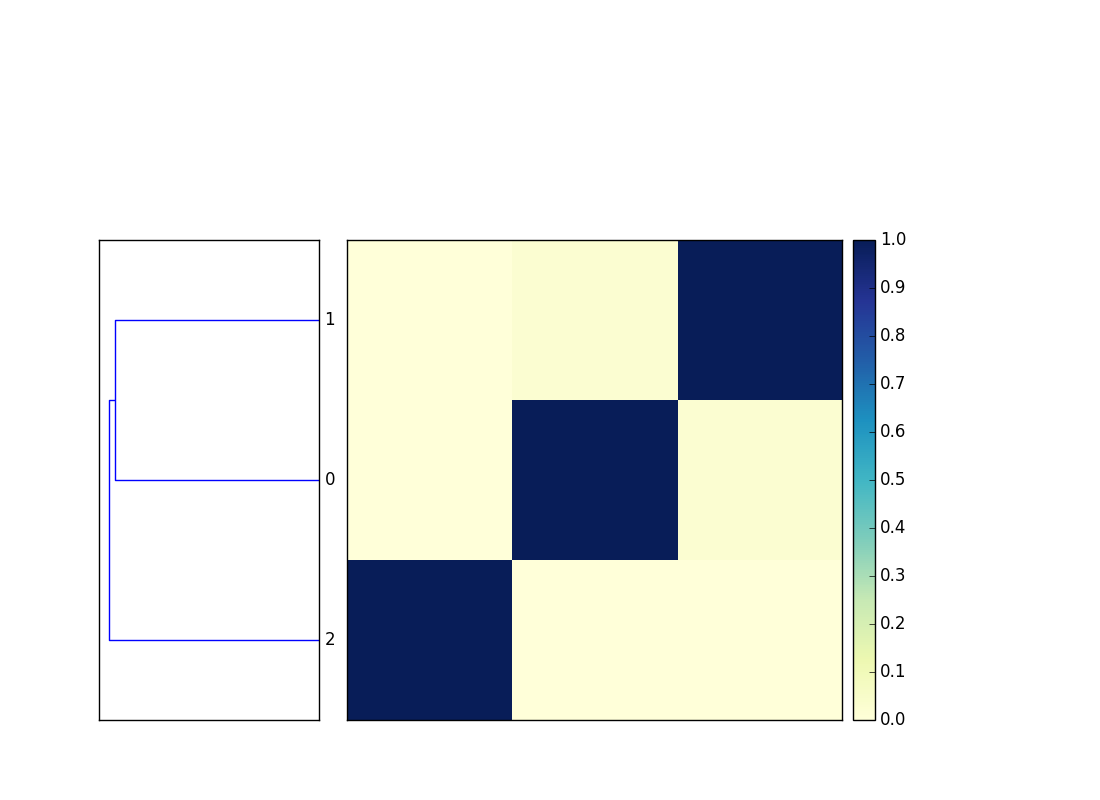
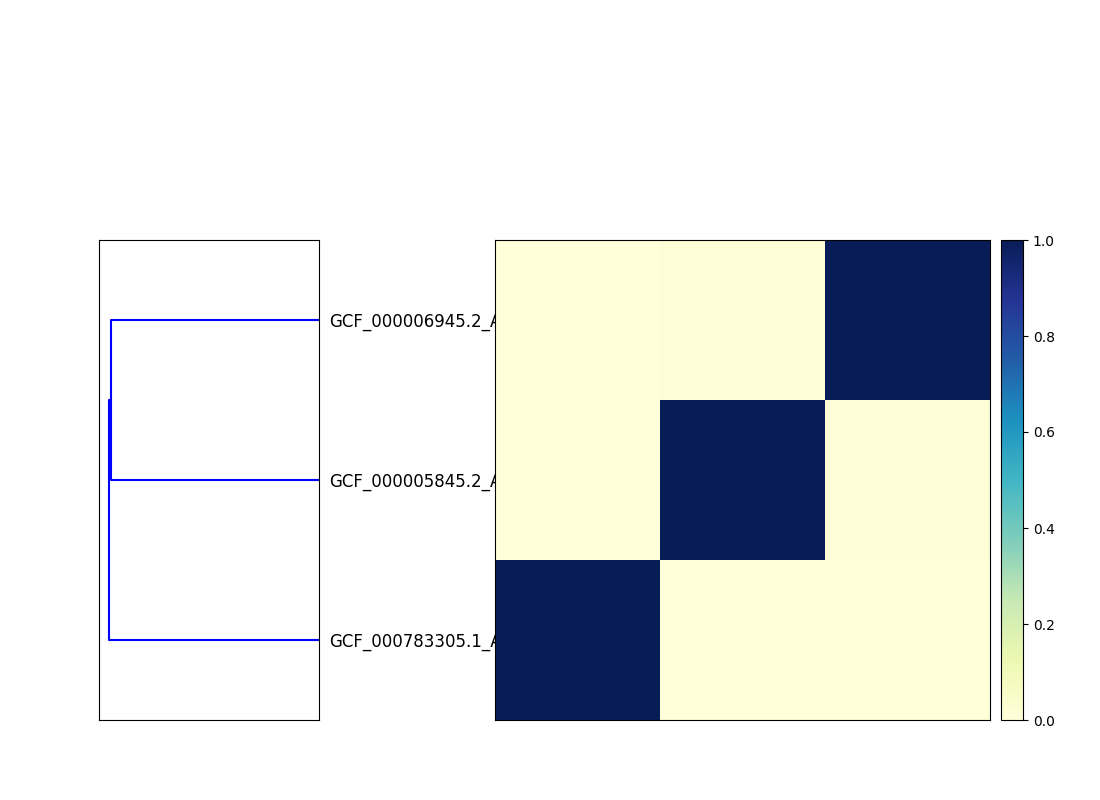
update & fix command line example for new Salmonella genome

Changed region(s): [[0.2782, 0.2812, 0.9582, 0.9062], [0.0927, 0.4062, 0.1236, 0.625]]

diff --git a/doc/command-line.md b/doc/command-line.md
@@ -20,12 +20,12 @@ taken.
 Grab three bacterial genomes from NCBI:
 ```
 curl -L -O ftp://ftp.ncbi.nlm.nih.gov/genomes/refseq/bacteria/Escherichia_coli/reference/GCF_000005845.2_ASM584v2/GCF_000005845.2_ASM584v2_genomic.fna.gz
-curl -L -O ftp://ftp.ncbi.nlm.nih.gov/genomes/refseq/bacteria/Salmonella_enterica/reference/GCF_000006945.1_ASM694v1/GCF_000006945.1_ASM694v1_genomic.fna.gz
+curl -L -O ftp://ftp.ncbi.nlm.nih.gov/genomes/refseq/bacteria/Salmonella_enterica/reference/GCF_000006945.2_ASM694v2/GCF_000006945.2_ASM694v2_genomic.fna.gz
 curl -L -O ftp://ftp.ncbi.nlm.nih.gov/genomes/refseq/bacteria/Sphingobacteriaceae_bacterium_DW12/latest_assembly_versions/GCF_000783305.1_ASM78330v1/GCF_000783305.1_ASM78330v1_genomic.fna.gz
 ```
 Compute signatures for each:
 ```
-   sourmash compute *.fna.gz
+   sourmash compute -k 31 *.fna.gz
 ```
 This will produce three `.sig` files containing MinHash signatures at k=31.
 
@@ -35,7 +35,7 @@ sourmash compare *.sig -o cmp
 ```
 Finally, plot a dendrogram:
 ```
-sourmash plot cmp
+sourmash plot cmp --labels
 ```
 This will output two files, `cmp.dendro.png` and `cmp.matrix.png`,
 containing a clustering & dendrogram of the sequences, as well as a
